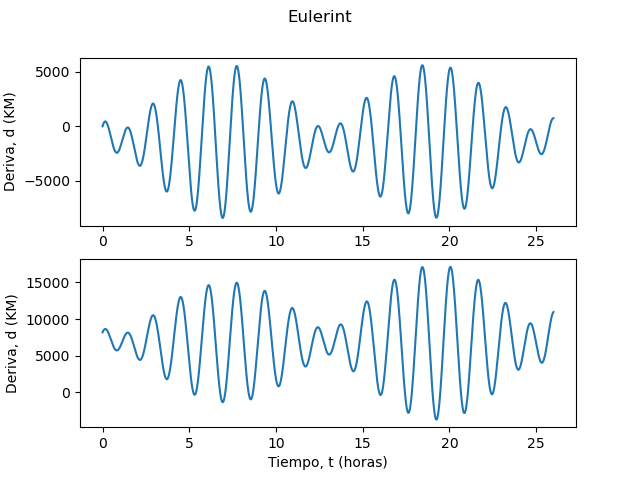
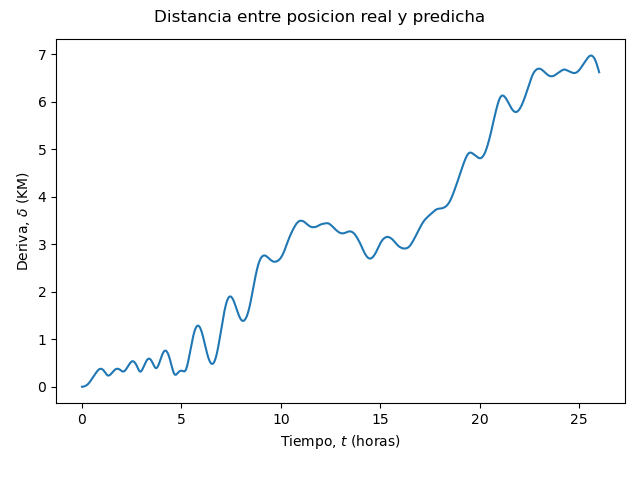
Read me Entrega 7

diff --git a/Entrega_7.py b/Entrega_7.py
@@ -1,0 +1,181 @@
+# -*- coding: utf-8 -*-
+"""
+Created on Sun Sep  6 23:18:41 2020
+
+@author: Fran
+"""
+from matplotlib.pylab import *
+from scipy.integrate import odeint
+import datetime as dt
+from leer_eof import leer_eof
+
+from sys import argv
+#eofname = argv[1]
+sat_t, sat_x, sat_y, sat_z, sat_vx, sat_vy, sat_vz = leer_eof("S1B_OPER_AUX_POEORB_OPOD_20200828T111242_V20200807T225942_20200809T005942.EOF")
+
+eofname = ("S1B_OPER_AUX_POEORB_OPOD_20200828T111242_V20200807T225942_20200809T005942.EOF")
+
+
+correccion = 2
+
+tmax = max(sat_t)
+
+hr = 3600. #s
+km = 1e3 #m
+km3 = (1e3)**3
+km5 = (1e3)**5
+km6 = (1e3)**6
+mu = 398600.440*km3
+J2 = 1.75553e10*km5
+J3 = -2.61913e11*km6
+
+Nt = 9000
+dt = 10.
+Radio = 6371. * km  #km
+mt = 5.972e24 #Kg
+G = 6.67408e-11 #(m***3)/kg*(s**2)
+omega = 7.2921150e-5 #rad/s
+H0 = 700. * km
+
+zp = zeros(6)
+
+def zpunto(z, t):
+    theta = omega*t
+    R = np.array([[cos(theta), -sin(theta), 0], 
+    [sin(theta), cos(theta), 0],
+    [0, 0, 1]])
+
+    R_prima =  np.array([[-sin(theta), -cos(theta), 0], 
+    [cos(theta), -sin(theta), 0],
+    [0, 0, 0]]) * omega
+
+    R_prima_prima =  np.array([[-cos(theta), sin(theta), 0], 
+    [-sin(theta), -cos(theta), 0],
+    [0, 0, 0]]) * (omega**2)
+    
+    x = z[0:3]
+    xp = z[3:6]
+    
+    r = sqrt(dot(x,x))
+    
+    x_vector = R@x    #vector 
+    rnorm = x_vector / r
+    Fg = -(mu)/(r**2) * rnorm
+    
+    
+    z2 = x_vector[2]**2     #termino z**2
+    rflat = x_vector[0]**2 + x_vector[1]**2      #r = x**2 + y**2
+    FJ2 = J2 * x_vector / (r**7)
+    FJ2[0] = FJ2[0] * (6*z2 - 1.5 * rflat)  
+    FJ2[1] = FJ2[1] * (6*z2 - 1.5 * rflat)
+    FJ2[2] = FJ2[2] * (3*z2 - 4.5 * rflat)
+    
+    FJ3 = zeros(3)
+    FJ3[0] = J3 * x_vector[0]*x_vector[2] / r**9 * (10*z2 - 7.5*rflat)
+    FJ3[1] = J3 * x_vector[1]*x_vector[2] / r**9 * (10*z2 - 7.5*rflat)
+    FJ3[2] = J3 * 1 / r**9 * (4*z2*(z2 - 3*rflat) + 1.5*(rflat)**2)
+    
+    
+    zp = zeros(6)
+    zp[0:3] = xp
+    
+    if correccion == 0:
+        zp[3:6] = R.T@(Fg - (2*R_prima@xp + R_prima_prima@x))
+    elif correccion == 1:
+        zp[3:6] = R.T@(Fg + FJ2 - (2*R_prima@xp + R_prima_prima@x))
+    elif correccion == 2:
+        zp[3:6] = R.T@(Fg + FJ2 + FJ3 - (2*R_prima@xp + R_prima_prima@x))
+        
+        
+    return zp
+
+#vector de tiempo
+t = sat_t   #linspace(0, tmax, 100001)
+
+#Parte en el origen 
+x0 = Radio + H0
+vt = 24548/3.6 #m/s
+
+z0 = array([sat_x[0], sat_y[0], sat_z[0], sat_vx[0], sat_vy[0], sat_vz[0]])
+
+sol = odeint(zpunto, z0, t)
+
+x = sol[:,0]
+y = sol[:,1]
+z = sol[:,2]
+
+vx = sol[:,3]
+vy = sol[:,4]
+vz = sol[:,5]
+
+
+
+delta = sqrt((x - sat_x)**2 + (y - sat_y)**2 + (z - sat_z)**2)
+
+
+
+figure(1)
+subplot(3,1,1)
+plot(sat_t/3600.,sat_x/1000)
+plot(t/3600.,x/1000)
+ylabel("$X$ (KM)")
+subplot(3,1,2)
+plot(sat_t/3600.,sat_y/1000)
+plot(t/3600.,y/1000)
+ylabel("$Y$ (KM)")
+subplot(3,1,3)
+plot(sat_t/3600.,sat_z/1000, label="real")
+plot(t/3600.,z/1000, label="predicha")
+ylabel("$Z$ (KM)")
+suptitle("Posicion")
+xlabel("Tiempo, $t$ (horas)")
+tight_layout(rect=[0,0.03,1,0.95])
+savefig("posiciones.png")
+      
+
+show()
+figure(2) 
+plot(t/3600,delta/1000)
+suptitle(f"Distancia entre posicion real y predicha")
+ylabel("Deriva, $\\delta$ (KM)")
+xlabel("Tiempo, $t$ (horas)")
+tight_layout(rect=[0,0.03,1,0.95])
+savefig("Deriva.png")
+
+show()
+
+
+
+import xml
+import xml.etree.ElementTree as ET
+
+eofname = ("S1B_OPER_AUX_POEORB_OPOD_20200828T111242_V20200807T225942_20200809T005942.EOF")
+
+
+def eof_a_pred(eofname, x, y, z, vx, vy, vz):
+    
+   
+    tree = ET.parse(eofname)
+    root = tree.getroot()
+    
+    Data_Block = root.find("Data_Block")		
+    List_of_OSVs = Data_Block.find("List_of_OSVs")
+    
+    for i, osv in enumerate(List_of_OSVs):
+    		UTC = osv.find("UTC").text[4:]
+    		
+    		osv.find("X").text = str(x[i])  #conversion de string a double es implicita
+    		osv.find("Y").text = str(y[i])
+    		osv.find("Z").text = str(z[i])
+    		osv.find("VX").text = str(vx[i])
+    		osv.find("VY").text = str(vy[i])
+    		osv.find("VZ").text = str(vz[i])
+            
+    tree.write('S1B_OPER_AUX_POEORB_OPOD_20200828T111242_V20200807T225942_20200809T005942.PRED')
+    
+    return tree
+        
+print(eof_a_pred(eofname, x, y, z, vx, vy, vz))
+
+
+
